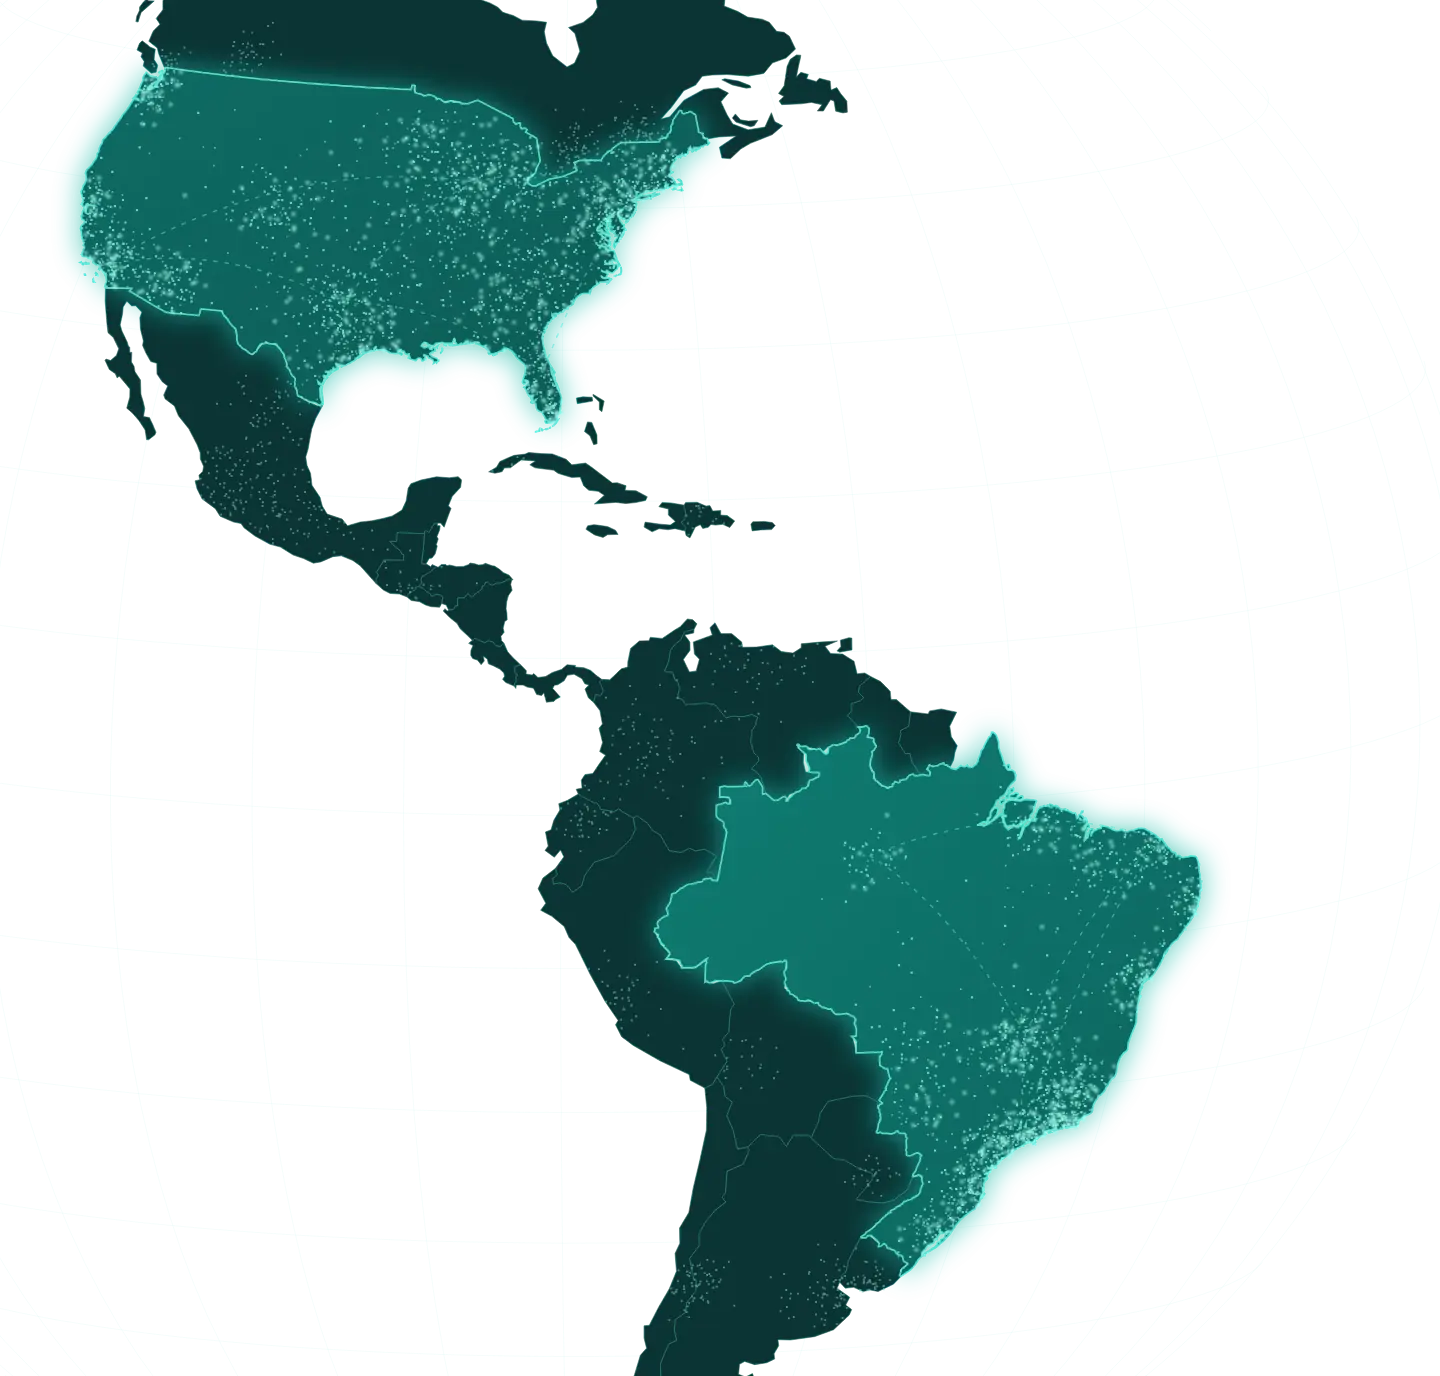
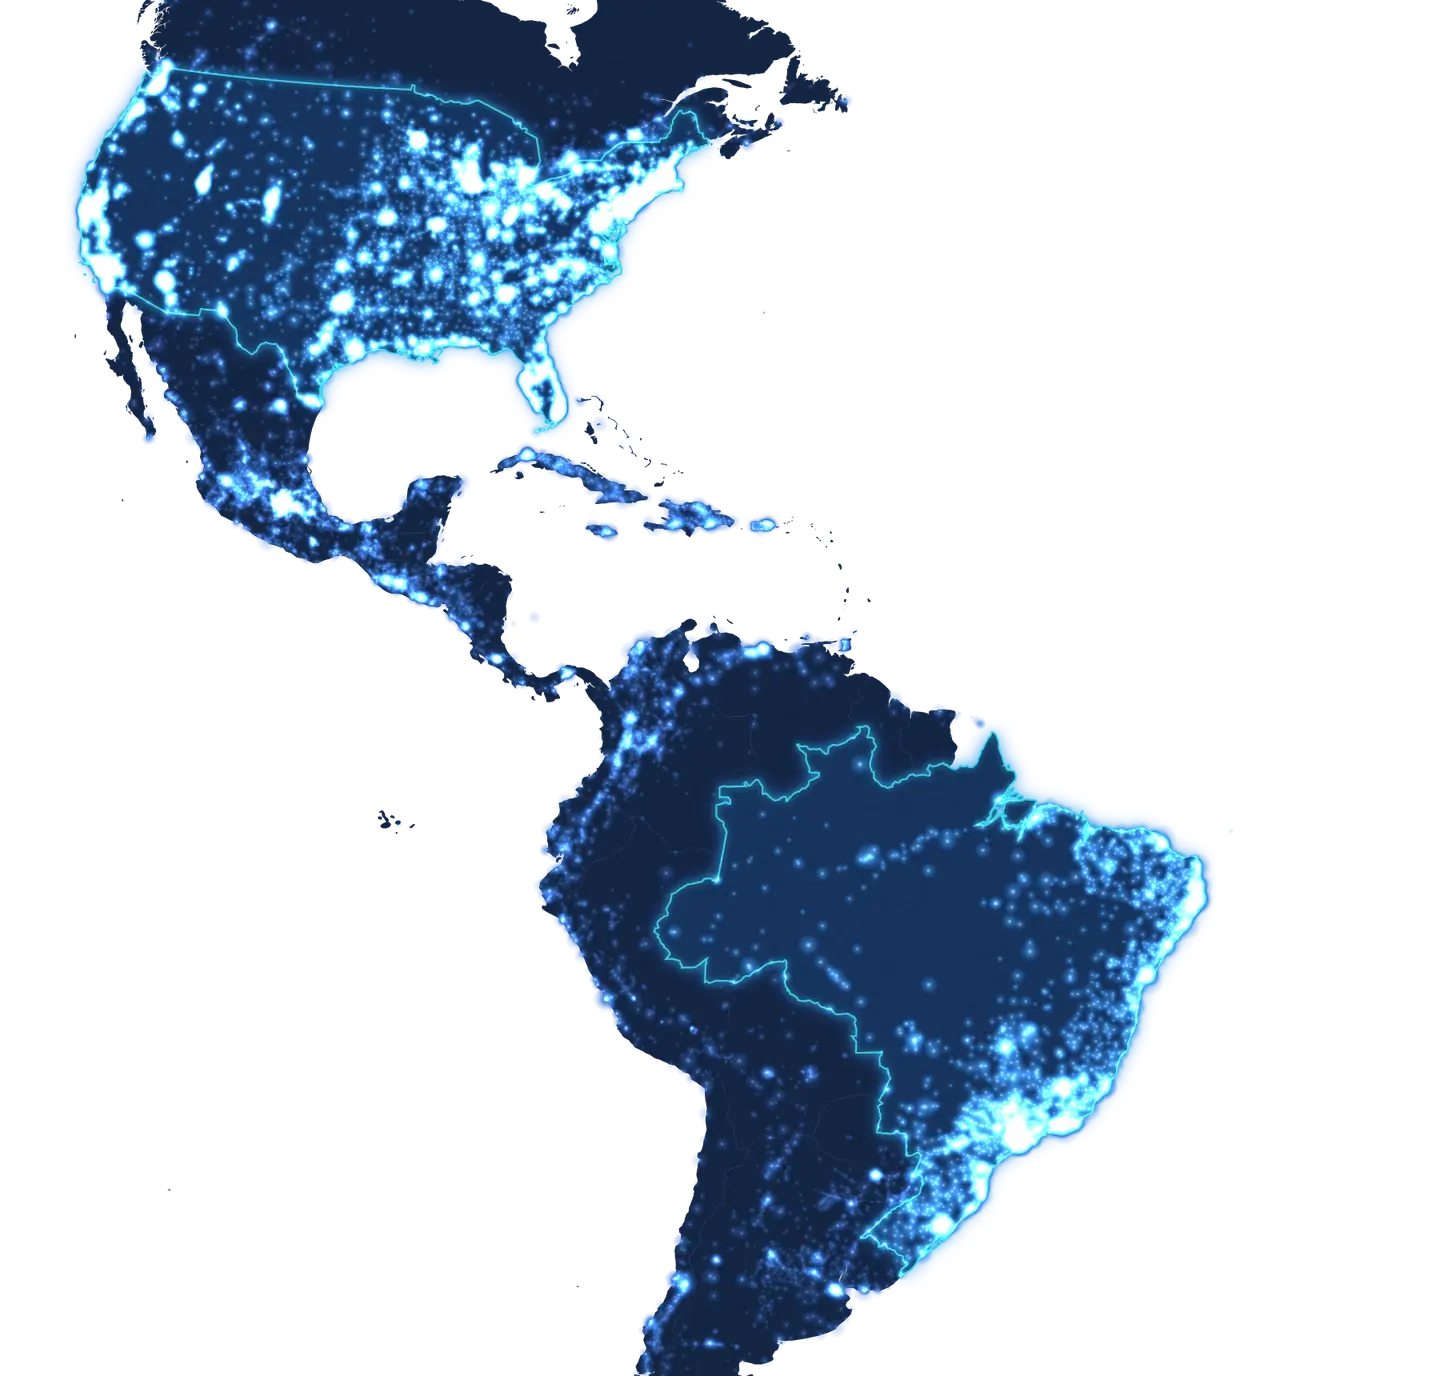
Primeira dobra na identidade azul e mapa noturno realista
- Mapa refeito como vista noturna das Américas: contornos reais e as
  luzes de cerca de 18 mil cidades (dados de população), com Estados
  Unidos e Brasil em destaque azul.
- Hero e cabeçalho voltam à paleta da marca (azul #1f6fd1/#2f86e8 e
  ciano #3fd5f0): botões, destaques, ícones, marcadores e faixa inferior.
- Remove os estilos de botão turquesa, que não são mais usados.

Claude-Session: https://claude.ai/code/session_0187FtdyzRZY4NcVKfStxt2M

Changed region(s): [[0.0312, 0.0, 0.8438, 1.0], [0.5, 0.0, 0.5312, 0.0312]]

diff --git a/src/components/Hero.tsx b/src/components/Hero.tsx
@@ -127,18 +127,18 @@ function Pin({ x, y, delay }: { x: number; y: number; delay: number }) {
   return (
     <span className="absolute" style={{ left: `${x}%`, top: `${y}%` }}>
       {/* halo no chão */}
-      <span className="absolute left-0 top-0 size-7 -translate-x-1/2 -translate-y-1/2 rounded-full bg-[#14b8a6]/25 blur-[3px] sm:size-9" />
+      <span className="absolute left-0 top-0 size-7 -translate-x-1/2 -translate-y-1/2 rounded-full bg-[#2f86e8]/35 blur-[3px] sm:size-9" />
       <span
-        className="hero-pin-pulse absolute left-0 top-0 size-9 rounded-full border border-[#5eead4]/70 motion-reduce:hidden sm:size-12"
+        className="hero-pin-pulse absolute left-0 top-0 size-9 rounded-full border border-cyan/70 motion-reduce:hidden sm:size-12"
         style={{ animationDelay: `${delay}s` }}
       />
       {/* gota */}
       <svg
         viewBox="0 0 24 32"
-        className="absolute bottom-0 left-0 h-[22px] w-[17px] -translate-x-1/2 drop-shadow-[0_0_8px_rgba(94,234,212,0.85)] sm:h-[30px] sm:w-[23px]"
+        className="absolute bottom-0 left-0 h-[22px] w-[17px] -translate-x-1/2 drop-shadow-[0_0_8px_rgba(63,213,240,0.85)] sm:h-[30px] sm:w-[23px]"
       >
-        <path d="M12 31C10 26 2 20 2 12a10 10 0 0 1 20 0c0 8-8 14-10 19Z" fill="#0b3b39" stroke="#5eead4" strokeWidth="1.6" />
-        <circle cx="12" cy="12" r="4" fill="#99f6e4" />
+        <path d="M12 31C10 26 2 20 2 12a10 10 0 0 1 20 0c0 8-8 14-10 19Z" fill="#0b2a55" stroke="#3fd5f0" strokeWidth="1.6" />
+        <circle cx="12" cy="12" r="4" fill="#d4f6ff" />
       </svg>
     </span>
   );
@@ -151,21 +151,21 @@ function BusinessCard({ b, i }: { b: Business; i: number }) {
       className={`hero-fade absolute w-[23%] ${b.mobile ? "" : "max-sm:hidden"}`}
       style={{ left: b.pos.left, top: b.pos.top, animationDelay: `${0.55 + i * 0.1}s` }}
     >
-      <div className="relative aspect-[3/2] overflow-hidden rounded-xl border border-white/25 bg-[#0b1d24] shadow-[0_18px_40px_-14px_rgba(0,0,0,0.85)] ring-1 ring-black/40">
+      <div className="relative aspect-[3/2] overflow-hidden rounded-xl border border-white/25 bg-navy-card shadow-[0_18px_40px_-14px_rgba(0,0,0,0.85)] ring-1 ring-black/40">
         <Image src={b.img} alt={b.alt} fill sizes="(max-width: 1024px) 26vw, 170px" className="object-cover" />
         <span className="pointer-events-none absolute inset-0 rounded-xl bg-gradient-to-t from-black/25 to-transparent" />
       </div>
       {/* etiqueta branca */}
       <div
-        className={`absolute z-10 flex items-center gap-2 whitespace-nowrap rounded-lg bg-white px-2.5 py-1.5 text-[#0b1f2a] shadow-[0_12px_28px_-10px_rgba(0,0,0,0.7)] max-sm:hidden lg:gap-2.5 lg:px-3 lg:py-2 ${
+        className={`absolute z-10 flex items-center gap-2 whitespace-nowrap rounded-lg bg-white px-2.5 py-1.5 text-ink shadow-[0_12px_28px_-10px_rgba(0,0,0,0.7)] max-sm:hidden lg:gap-2.5 lg:px-3 lg:py-2 ${
           b.tag === "right" ? "left-[68%] top-[30%]" : b.tag === "below-end" ? "right-[-16%] top-[64%]" : "left-[62%] top-[64%]"
         }`}
       >
-        <Icon className="size-4 shrink-0 text-[#00726a] lg:size-[18px]" aria-hidden="true" strokeWidth={2.4} />
+        <Icon className="size-4 shrink-0 text-blue-ink lg:size-[18px]" aria-hidden="true" strokeWidth={2.4} />
         <span className="text-[0.62rem] font-semibold leading-[1.25] lg:text-[0.7rem] xl:text-[0.74rem]">
           {b.label[0]}
           <br />
-          <span className="font-medium text-[#2f4552]">{b.label[1]}</span>
+          <span className="font-medium text-body-light">{b.label[1]}</span>
         </span>
       </div>
     </div>
@@ -177,11 +177,11 @@ export function Hero() {
     <section
       id="inicio"
       aria-labelledby="hero-title"
-      className="relative isolate overflow-hidden bg-[#04101a] pt-[calc(var(--header-h)+28px)] lg:flex lg:min-h-[100svh] lg:flex-col lg:pt-[calc(var(--header-h)+16px)]"
+      className="relative isolate overflow-hidden bg-night pt-[calc(var(--header-h)+28px)] lg:flex lg:min-h-[100svh] lg:flex-col lg:pt-[calc(var(--header-h)+16px)]"
     >
       {/* fundo: azul-marinho quase preto, luz turquesa discreta atrás do mapa */}
       <div aria-hidden="true" className="absolute inset-0 -z-10">
-        <div className="absolute inset-0 bg-[radial-gradient(ellipse_55%_60%_at_74%_42%,rgba(20,184,166,0.16),transparent_70%),radial-gradient(ellipse_40%_50%_at_8%_100%,rgba(0,114,106,0.12),transparent_70%)]" />
+        <div className="absolute inset-0 bg-[radial-gradient(ellipse_55%_60%_at_74%_42%,rgba(47,134,232,0.22),transparent_70%),radial-gradient(ellipse_40%_50%_at_8%_100%,rgba(63,213,240,0.08),transparent_70%)]" />
         <div className="absolute inset-0 bg-[radial-gradient(rgba(255,255,255,0.06)_1px,transparent_1px)] [background-size:44px_44px] [mask-image:radial-gradient(ellipse_at_70%_40%,black,transparent_70%)]" />
         <div className="absolute inset-x-0 bottom-0 h-40 bg-gradient-to-b from-transparent to-night" />
       </div>
@@ -189,7 +189,7 @@ export function Hero() {
       <div className="mx-auto grid w-full max-w-[1440px] flex-1 items-center gap-10 px-5 sm:px-8 lg:grid-cols-[minmax(0,47fr)_minmax(0,53fr)] lg:gap-4 xl:px-12">
         {/* ---------------- texto ---------------- */}
         <div className="relative z-10 py-2">
-          <p className="hero-fade text-[0.7rem] font-bold uppercase tracking-[0.28em] text-[#14b8a6] sm:text-[0.76rem]" style={{ animationDelay: "0.05s" }}>
+          <p className="hero-fade text-[0.7rem] font-bold uppercase tracking-[0.28em] text-cyan sm:text-[0.76rem]" style={{ animationDelay: "0.05s" }}>
             Estratégia digital <span aria-hidden="true" className="mx-1.5">•</span> Brasil e Estados Unidos
           </p>
 
@@ -198,21 +198,21 @@ export function Hero() {
             className="mt-5 text-[clamp(2rem,3.2vw,3.25rem)] font-extrabold leading-[1.06] tracking-[-0.025em] text-white"
           >
             Sua empresa conectada às pessoas certas por meio de estratégias digitais{" "}
-            <span className="text-[#14b8a6]">alinhadas aos seus objetivos.</span>
+            <span className="bg-gradient-to-r from-[#5fe0f7] to-[#3a8ef0] bg-clip-text text-transparent">alinhadas aos seus objetivos.</span>
           </h1>
 
-          <p className="hero-fade mt-6 max-w-[34rem] text-[1.02rem] leading-relaxed text-[#c9d6e2] sm:text-[1.12rem]" style={{ animationDelay: "0.24s" }}>
+          <p className="hero-fade mt-6 max-w-[34rem] text-[1.02rem] leading-relaxed text-body-dark sm:text-[1.12rem]" style={{ animationDelay: "0.24s" }}>
             Estratégia e gestão de anúncios online, presença digital e tecnologia para empresas que querem mais
             visibilidade, mais oportunidades e mais clientes no Brasil e nos Estados Unidos.
           </p>
 
           <div className="hero-fade mt-8 flex flex-col gap-3 sm:flex-row sm:flex-wrap sm:items-center sm:gap-4" style={{ animationDelay: "0.34s" }}>
-            <a href={whatsappLink("hero")} target="_blank" rel="noopener noreferrer" className="btn btn-teal group whitespace-nowrap !rounded-xl !px-6">
+            <a href={whatsappLink("hero")} target="_blank" rel="noopener noreferrer" className="btn btn-primary group whitespace-nowrap !px-6">
               <WhatsAppIcon className="size-5" />
               Quero atrair mais clientes
               <ArrowRight className="size-4 transition-transform group-hover:translate-x-1" aria-hidden="true" />
             </a>
-            <a href="#solucoes" className="btn btn-outline-teal group whitespace-nowrap !rounded-xl !px-6">
+            <a href="#solucoes" className="btn btn-ghost group whitespace-nowrap !px-6">
               Conheça nossos serviços
               <ArrowRight className="size-4 transition-transform group-hover:translate-x-1" aria-hidden="true" />
             </a>
@@ -220,8 +220,8 @@ export function Hero() {
 
           <ul className="hero-fade relative z-20 mt-9 grid grid-cols-2 gap-x-5 gap-y-5 sm:grid-cols-4 sm:gap-x-4 lg:grid-cols-2 xl:w-[128%] xl:grid-cols-4" style={{ animationDelay: "0.44s" }}>
             {benefits.map(({ icon: Icon, text }) => (
-              <li key={text[1]} className="flex items-start gap-2.5 whitespace-nowrap text-[0.86rem] leading-snug text-[#c9d6e2] max-[380px]:whitespace-normal">
-                <Icon className="mt-0.5 size-[22px] shrink-0 text-[#14b8a6]" aria-hidden="true" strokeWidth={2.2} />
+              <li key={text[1]} className="flex items-start gap-2.5 whitespace-nowrap text-[0.86rem] leading-snug text-body-dark max-[380px]:whitespace-normal">
+                <Icon className="mt-0.5 size-[22px] shrink-0 text-cyan" aria-hidden="true" strokeWidth={2.2} />
                 <span>
                   {text[0]}
                   <br />
@@ -236,7 +236,7 @@ export function Hero() {
         <div className="relative mx-auto w-full max-w-[780px] lg:max-w-none">
           <div
             role="img"
-            aria-label="Mapa das Américas com Estados Unidos e Brasil em destaque, marcadores em várias cidades dos dois países e exemplos de negócios locais: comércio, serviços automotivos, climatização, restaurante, clínica e academia."
+            aria-label="Mapa noturno das Américas com as luzes das cidades, Estados Unidos e Brasil em destaque, marcadores em várias cidades dos dois países e exemplos de negócios locais: comércio, serviços automotivos, climatização, restaurante, clínica e academia."
             className="relative aspect-[1050/860] w-full sm:w-[88%] lg:w-full"
           >
             <div
@@ -256,14 +256,14 @@ export function Hero() {
             {/* rótulos dos países */}
             <span
               aria-hidden="true"
-              className="absolute -translate-x-1/2 text-[0.55rem] font-semibold tracking-[0.34em] text-white/90 [text-shadow:0_0_12px_rgba(20,184,166,0.9)] sm:text-[0.72rem] lg:text-[0.78rem]"
+              className="absolute -translate-x-1/2 text-[0.55rem] font-semibold tracking-[0.34em] text-white/90 [text-shadow:0_0_12px_rgba(63,213,240,0.9)] sm:text-[0.72rem] lg:text-[0.78rem]"
               style={{ left: `${mx(25)}%`, top: `${my(31)}%` }}
             >
               ESTADOS UNIDOS
             </span>
             <span
               aria-hidden="true"
-              className="absolute -translate-x-1/2 text-[0.55rem] font-semibold tracking-[0.34em] text-white/90 [text-shadow:0_0_12px_rgba(20,184,166,0.9)] sm:text-[0.72rem] lg:text-[0.78rem]"
+              className="absolute -translate-x-1/2 text-[0.55rem] font-semibold tracking-[0.34em] text-white/90 [text-shadow:0_0_12px_rgba(63,213,240,0.9)] sm:text-[0.72rem] lg:text-[0.78rem]"
               style={{ left: `${mx(59)}%`, top: `${my(68.5)}%` }}
             >
               BRASIL
@@ -285,10 +285,10 @@ export function Hero() {
           {/* celular: etiquetas em grade abaixo do mapa (no desktop elas ficam sobre os cartões) */}
           <ul className="mt-5 grid grid-cols-2 gap-2.5 sm:hidden">
             {businesses.map(({ icon: Icon, label }) => (
-              <li key={label[0]} className="flex items-center gap-2 rounded-lg bg-white px-3 py-2 text-[#0b1f2a]">
-                <Icon className="size-4 shrink-0 text-[#00726a]" aria-hidden="true" strokeWidth={2.4} />
+              <li key={label[0]} className="flex items-center gap-2 rounded-lg bg-white px-3 py-2 text-ink">
+                <Icon className="size-4 shrink-0 text-blue-ink" aria-hidden="true" strokeWidth={2.4} />
                 <span className="text-[0.74rem] font-semibold leading-tight">
-                  {label[0]} <span className="font-medium text-[#2f4552]">{label[1]}</span>
+                  {label[0]} <span className="font-medium text-body-light">{label[1]}</span>
                 </span>
               </li>
             ))}
@@ -298,14 +298,14 @@ export function Hero() {
 
       {/* ---------------- faixa inferior ---------------- */}
       <div className="mx-auto mt-10 w-full max-w-[1440px] px-5 pb-12 sm:px-8 lg:mt-4 lg:pb-8 xl:px-12">
-        <ul className="hero-fade grid grid-cols-2 rounded-2xl border border-white/10 bg-[rgba(6,22,32,0.72)] backdrop-blur-sm xl:grid-cols-4" style={{ animationDelay: "0.6s" }}>
+        <ul className="hero-fade grid grid-cols-2 rounded-2xl border border-white/10 bg-[rgba(10,22,48,0.72)] backdrop-blur-sm xl:grid-cols-4" style={{ animationDelay: "0.6s" }}>
           {facts.map(([title, text], i) => (
             <li
               key={title}
               className={`px-4 py-4 sm:px-8 sm:py-5 lg:py-6 ${i % 2 === 1 ? "border-l border-white/10" : ""} ${i >= 2 ? "border-t border-white/10 xl:border-t-0" : ""} ${i === 2 ? "xl:border-l" : ""}`}
             >
-              <p className="text-[1.02rem] font-bold leading-tight text-[#14b8a6] sm:text-[1.35rem]">{title}</p>
-              <p className="mt-1 text-[0.8rem] leading-snug text-[#c9d6e2] sm:text-[0.95rem]">{text}</p>
+              <p className="text-[1.02rem] font-bold leading-tight text-cyan sm:text-[1.35rem]">{title}</p>
+              <p className="mt-1 text-[0.8rem] leading-snug text-body-dark sm:text-[0.95rem]">{text}</p>
             </li>
           ))}
         </ul>

diff --git a/src/components/Header.tsx b/src/components/Header.tsx
@@ -88,7 +88,7 @@ export function Header() {
                     {isActive && (
                       <motion.span
                         layoutId="nav-dot"
-                        className="absolute inset-x-4 -bottom-0.5 h-[2px] rounded-full bg-[#14b8a6]"
+                        className="absolute inset-x-4 -bottom-0.5 h-[2px] rounded-full bg-cyan"
                         transition={{ type: "spring", stiffness: 380, damping: 32 }}
                       />
                     )}
@@ -104,7 +104,7 @@ export function Header() {
             href={whatsappLink("geral")}
             target="_blank"
             rel="noopener noreferrer"
-            className="btn btn-teal group hidden whitespace-nowrap !min-h-[46px] !rounded-xl !px-5 text-sm sm:inline-flex"
+            className="btn btn-primary group hidden whitespace-nowrap !min-h-[46px] !px-5 text-sm sm:inline-flex"
           >
             <WhatsAppIcon className="size-[18px] lg:max-xl:hidden" />
             Fale com um especialista
@@ -113,7 +113,7 @@ export function Header() {
           <button
             ref={toggleRef}
             type="button"
-            className="inline-flex size-11 items-center justify-center rounded-full border border-white/15 text-white transition-colors hover:border-[#14b8a6] lg:hidden"
+            className="inline-flex size-11 items-center justify-center rounded-full border border-white/15 text-white transition-colors hover:border-cyan lg:hidden"
             aria-expanded={open}
             aria-controls="menu-mobile"
             aria-label={open ? "Fechar menu" : "Abrir menu"}
@@ -161,7 +161,7 @@ export function Header() {
               href={whatsappLink("geral")}
               target="_blank"
               rel="noopener noreferrer"
-              className="btn btn-teal mt-8 w-full !rounded-xl"
+              className="btn btn-primary mt-8 w-full"
               onClick={() => setOpen(false)}
             >
               <WhatsAppIcon className="size-5" />

diff --git a/src/app/globals.css b/src/app/globals.css
@@ -162,21 +162,6 @@ p { text-wrap: pretty; }
 }
 .btn-ghost-light:hover { border-color: var(--blue); color: var(--blue); transform: translateY(-2px); }
 
-/* turquesa da marca (hero e cabeçalho): branco sobre #00726a = 5,9:1 */
-.btn-teal {
-  background: linear-gradient(180deg, #0a8077 0%, #00726a 100%);
-  color: #fff;
-  border: 1px solid rgba(94, 234, 212, 0.35);
-  box-shadow: 0 12px 32px -12px rgba(20, 184, 166, 0.75), inset 0 1px 0 rgba(255,255,255,.16);
-}
-.btn-teal:hover { background: linear-gradient(180deg, #0b8a80 0%, #006a63 100%); box-shadow: 0 16px 40px -12px rgba(20, 184, 166, 0.9), inset 0 1px 0 rgba(255,255,255,.22); transform: translateY(-2px); }
-.btn-outline-teal {
-  color: #fff;
-  border: 1px solid rgba(94, 234, 212, 0.55);
-  background: rgba(4, 20, 26, 0.35);
-}
-.btn-outline-teal:hover { border-color: #5eead4; background: rgba(20, 184, 166, 0.12); transform: translateY(-2px); }
-
 /* link com seta */
 .link-arrow {
   display: inline-flex; align-items: center; gap: .45rem;
